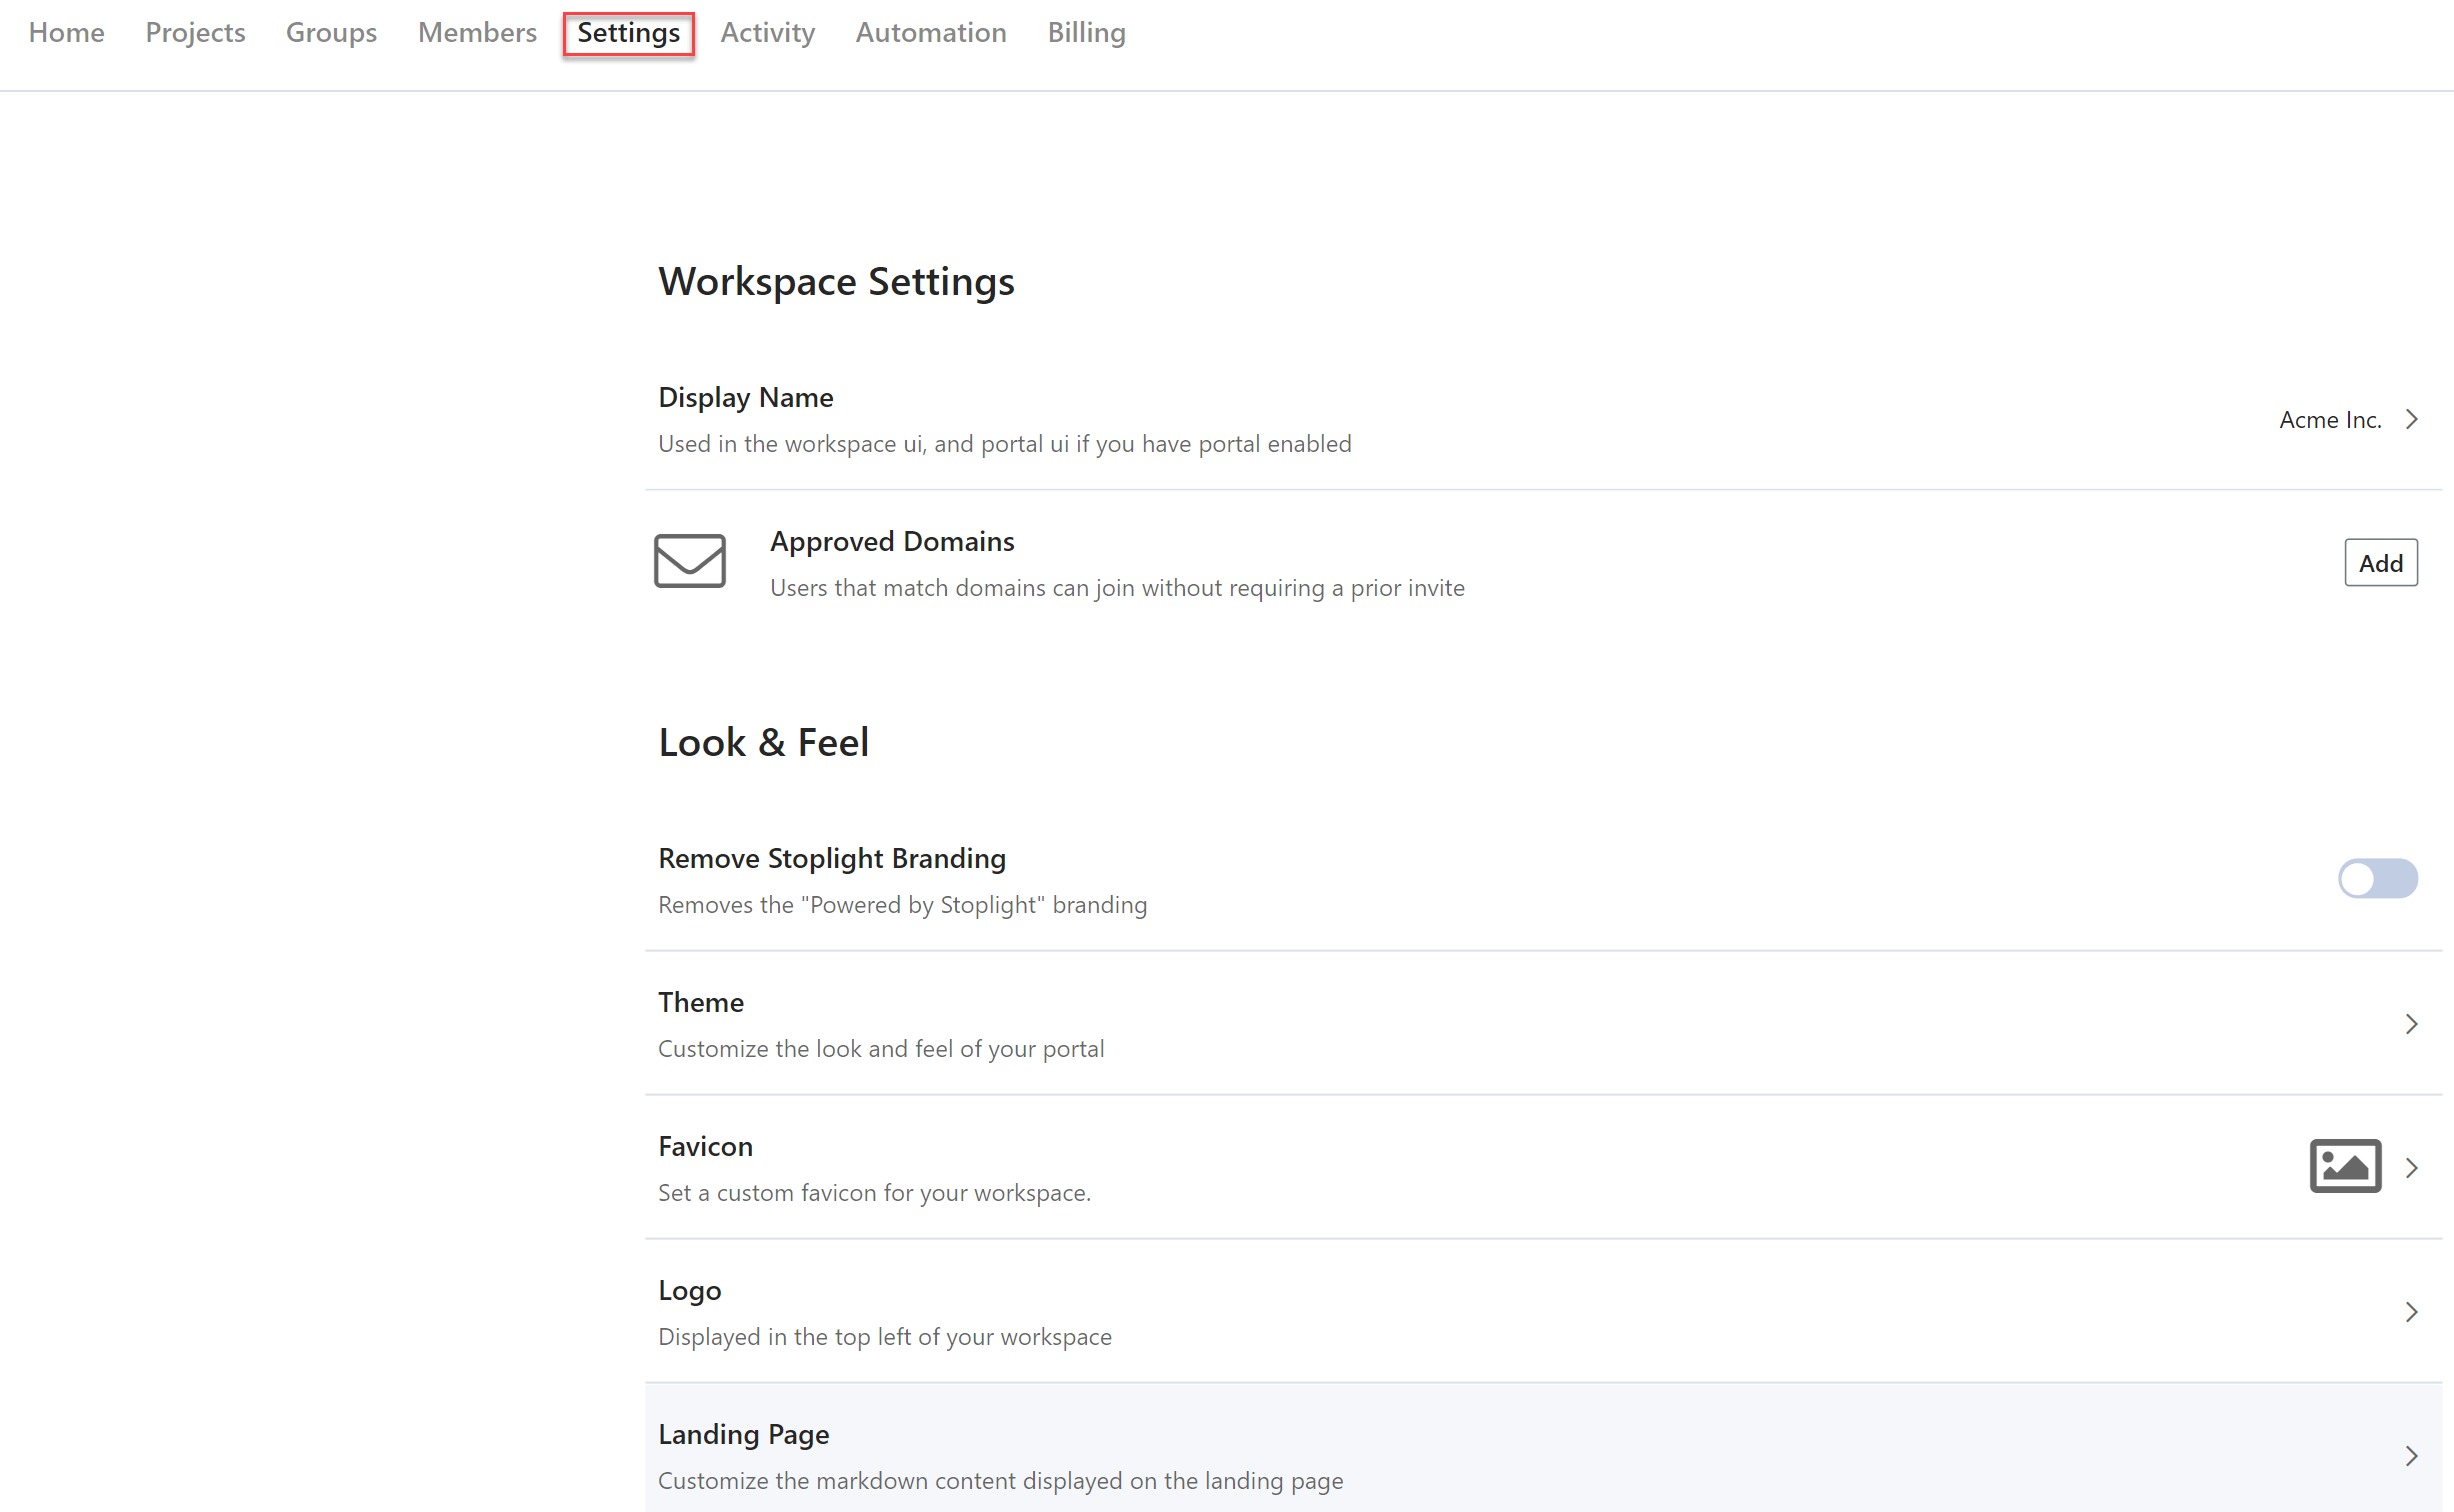
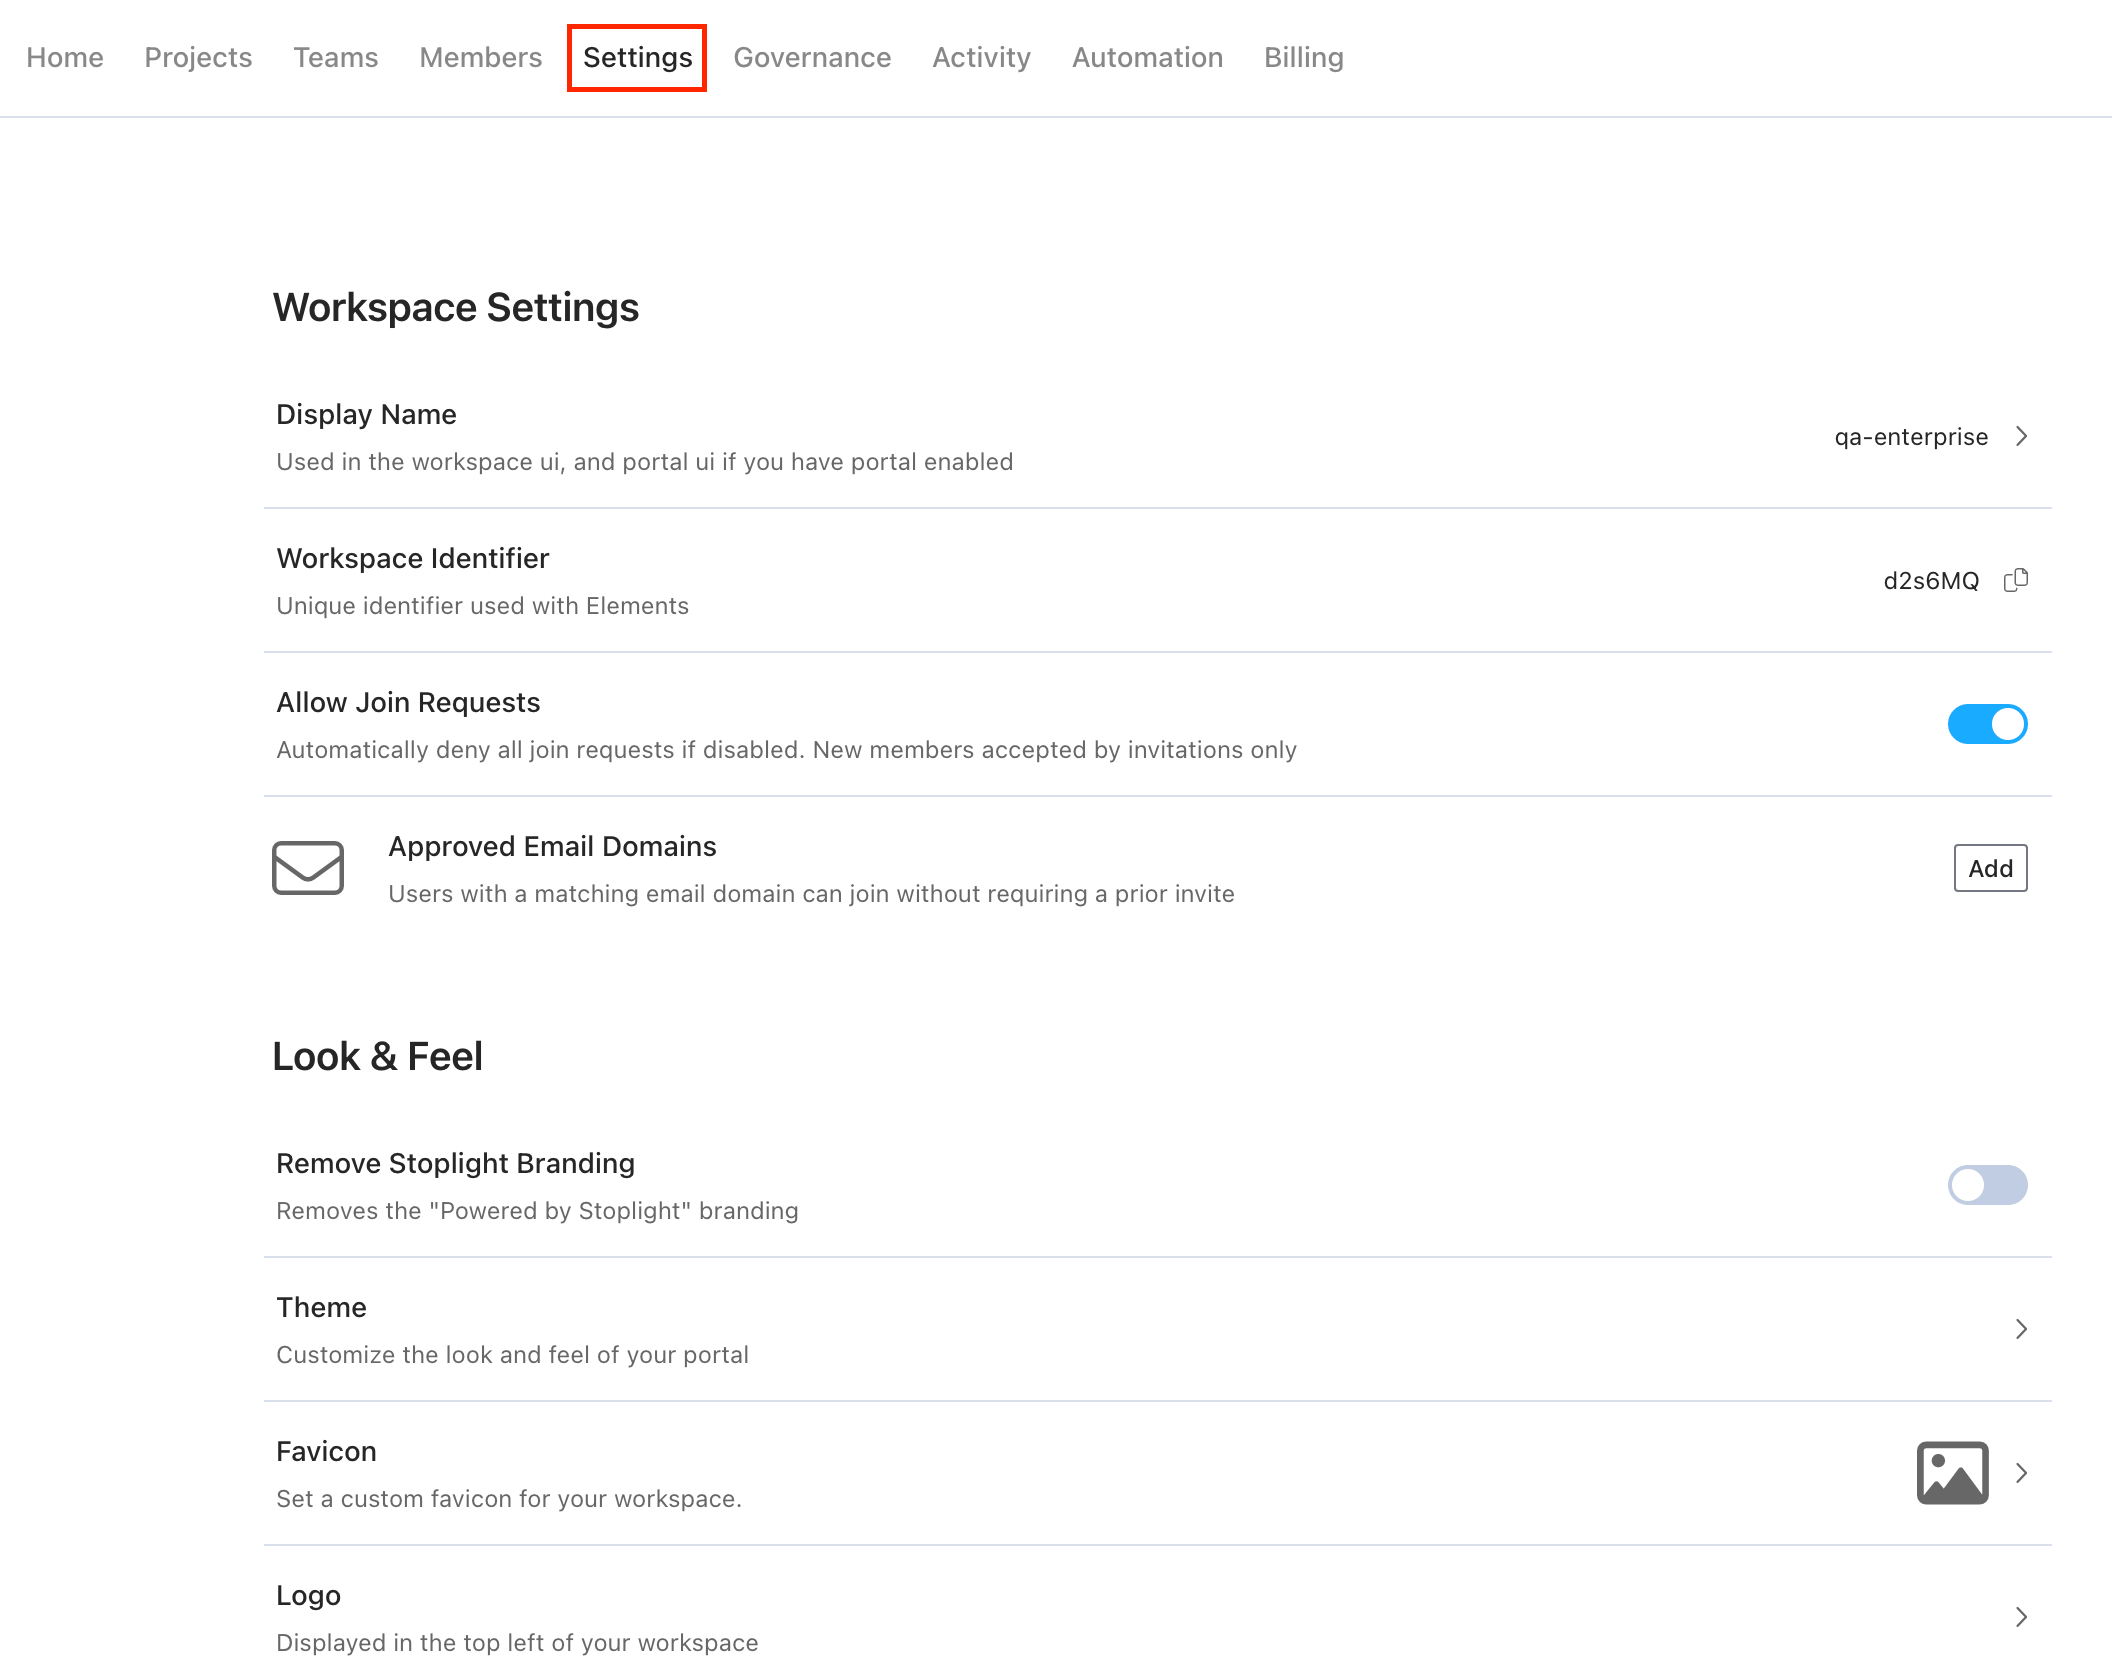
disable join requests change (#556)
* disable join requests change

* Troy feedback

* Minor wording change

* inverse setting logic

* Modified 2.-workspaces/b1-change-look-and-feel.md

diff --git a/2.-workspaces/b1-change-look-and-feel.md b/2.-workspaces/b1-change-look-and-feel.md
@@ -8,6 +8,14 @@ To customize workspace settings, select **Settings** from the workspace home pag
 
 Select this option to change the name that appears in the upper left corner of your workspace if you have the portal enabled. 
 
+## Workspace Identifier
+
+Used by the [Elements Dev Portal](https://meta.stoplight.io/docs/elements/ZG9jOjEyMDU2Njc2-introduction-to-elements-dev-portal) to identify the workspace.
+
+## Allow Join Requests
+
+Used to control join requests. Once disabled, new members must be invited to join your workspace. See [Invite Workspace Members](d.workspace-access.md#invite-members-to-your-workspace) for details.
+
 ## Approved Domains
 
 Set approved email domains that enable users to join your workspace without an invitation. See [Allowed Email Domains](d.workspace-access.md#allow-access-by-email-domain) for details.

diff --git a/2.-workspaces/d.workspace-access.md b/2.-workspaces/d.workspace-access.md
@@ -49,6 +49,8 @@ To change the default role or remove the domain, select the arrow to the right o
 
 You must approve join requests when users want to join your workspace. If you allow access by email domain, you must approve join requests for users who register for your workspace with an email address that doesn't match your domain.
 
+> You can disable join requests for your workspace. See [Workspace Settings](b1-change-look-and-feel.md#allow-join-requests) for details.
+
 Join requests automatically expire and are deleted after 30 days.
 
 Workspace owners and administrators are notified by email when users try to join their workspace. Select the link in the email to approve requests. You can also manually approve join requests from the **Members Settings** page.

diff --git a/7.-projects/project-settings.md b/7.-projects/project-settings.md
@@ -15,7 +15,7 @@ Use one of these methods to open the **Project Settings** page:
 
 * **Slug**: The value used in project URLs. Project slugs must be unique in a workspace.
 
-* **ID**: Used to identify the project by the [Elements Dev Portal](https://meta.stoplight.io/docs/elements/ZG9jOjEyMDU2Njc2-introduction-to-elements-dev-portal).
+* **ID**: Used by the [Elements Dev Portal](https://meta.stoplight.io/docs/elements/ZG9jOjEyMDU2Njc2-introduction-to-elements-dev-portal) to identify the project.
 
 * **Tagline**: Text here is shown below the project name in the workspace sidebar.
 
